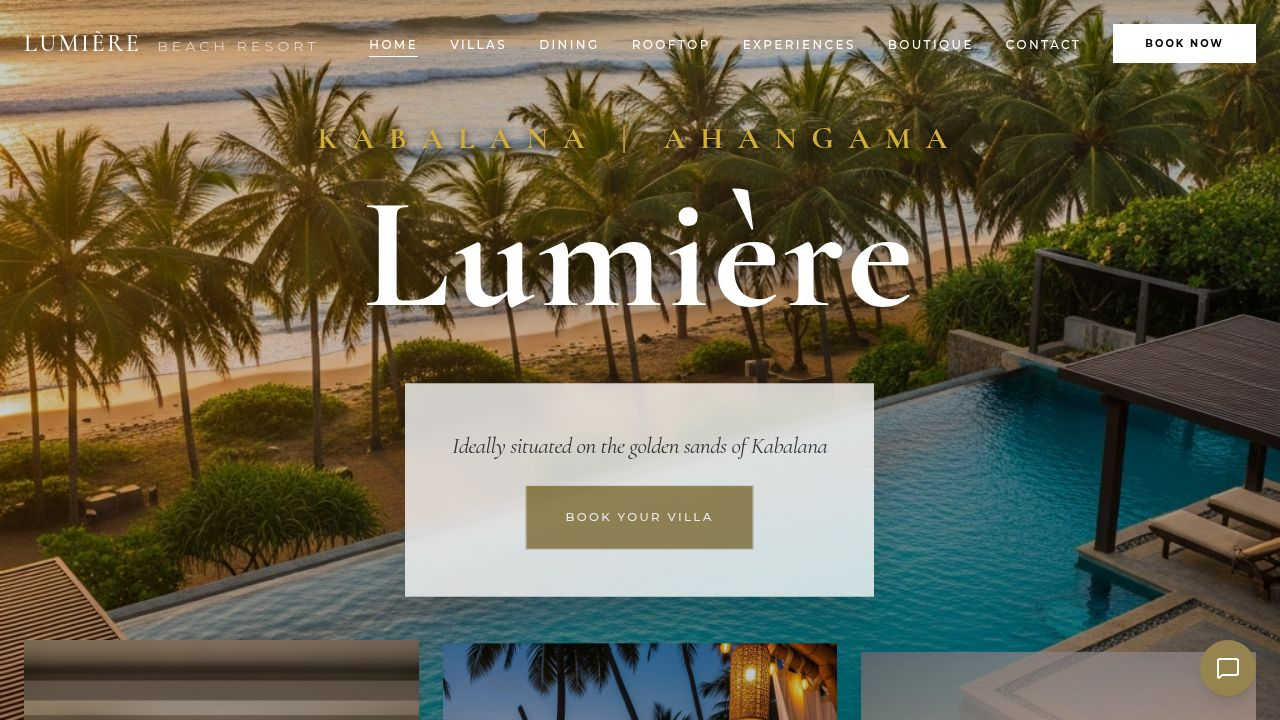
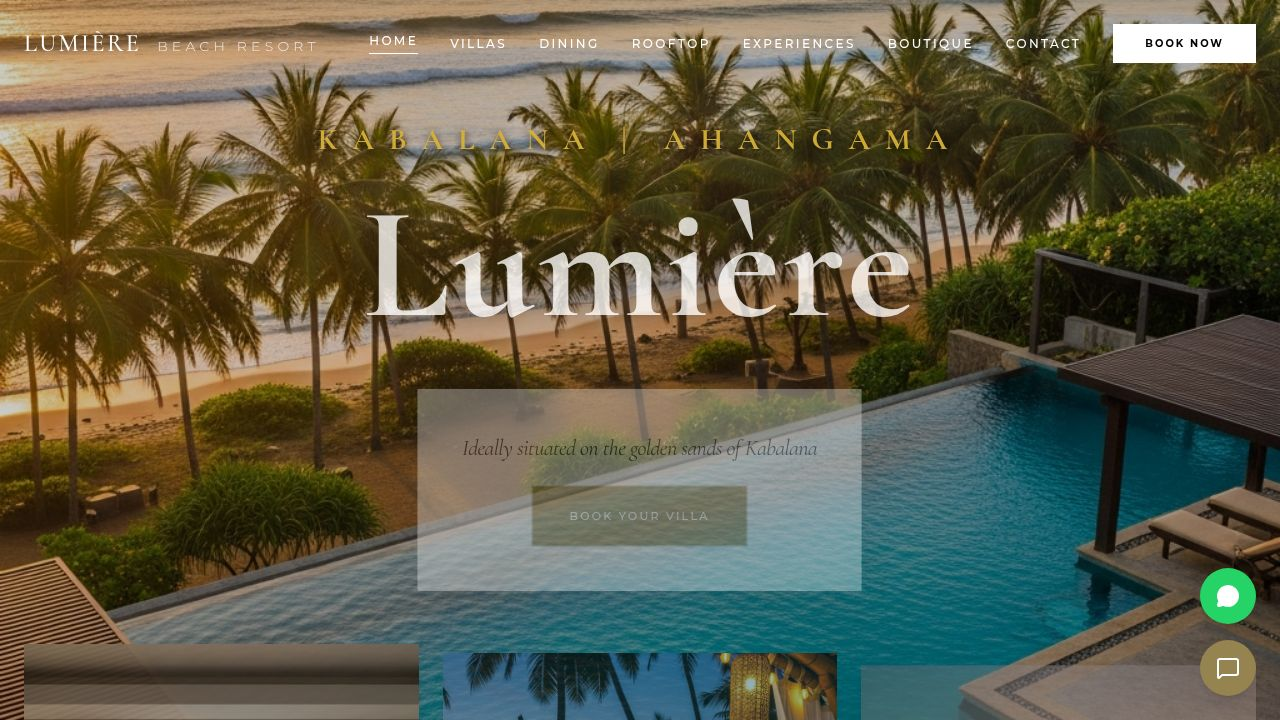
Add detailed pages for each villa with booking functionality
Implement a dynamic route for /rooms/:id to display villa details including a gallery, description, amenities, and a functional booking button.

Replit-Commit-Author: Agent
Replit-Commit-Session-Id: 6dc236d9-b000-4b15-93d0-88bc13d1ae64
Replit-Commit-Checkpoint-Type: full_checkpoint
Replit-Commit-Event-Id: 4dd7172b-1869-47d0-be1b-2f85871090e9
Replit-Commit-Screenshot-Url: https://storage.googleapis.com/screenshot-production-us-central1/9d6a1604-b092-4eb2-9c59-578db4086655/6dc236d9-b000-4b15-93d0-88bc13d1ae64/bbpY5ty
Replit-Helium-Checkpoint-Created: true

diff --git a/client/src/pages/RoomDetails.tsx b/client/src/pages/RoomDetails.tsx
@@ -1,0 +1,192 @@
+import { useParams, Link } from "wouter";
+import { motion } from "framer-motion";
+import { rooms } from "@/lib/mockData";
+import { Button } from "@/components/ui/button";
+import BookingDialog from "@/components/BookingDialog";
+import { Wifi, Wind, Wine, User, Droplets, ArrowLeft, Check } from "lucide-react";
+
+import bedroomImage from "@assets/generated_images/villa_master_bedroom_interior.png";
+import bathroomImage from "@assets/generated_images/villa_bathroom_with_bathtub.png";
+import poolImage from "@assets/generated_images/villa_private_pool_terrace.png";
+import livingImage from "@assets/generated_images/villa_living_room_interior.png";
+import heroImage from "@assets/generated_images/beachfront_villa_plunge_pool.png";
+
+const galleryImages = [
+  { src: heroImage, alt: "Villa Exterior" },
+  { src: bedroomImage, alt: "Master Bedroom" },
+  { src: bathroomImage, alt: "Luxury Bathroom" },
+  { src: poolImage, alt: "Private Pool" },
+  { src: livingImage, alt: "Living Area" },
+];
+
+const amenityIcons: Record<string, typeof Wifi> = {
+  "Wifi": Wifi,
+  "Mini Bar": Wine,
+  "Butler Service": User,
+  "Private Butler": User,
+  "Outdoor Rain Shower": Droplets,
+  "AC": Wind,
+};
+
+const allAmenities = [
+  { name: "High-Speed Wi-Fi", icon: Wifi },
+  { name: "Climate Control AC", icon: Wind },
+  { name: "Premium Mini-Bar", icon: Wine },
+  { name: "Private Butler", icon: User },
+  { name: "Outdoor Rain Shower", icon: Droplets },
+];
+
+const roomDescriptions: Record<number, string> = {
+  1: "Experience unparalleled luxury in our Royal Ocean Villa, a 1,500 sq ft beachfront sanctuary where the Indian Ocean greets you each morning. Step directly from your private terrace onto the pristine sands of Kabalana Beach. Your personal plunge pool offers a serene retreat, while the outdoor rain shower under the stars creates unforgettable moments. With dedicated butler service attending to your every need, handcrafted furnishings, and panoramic ocean views from every room, this villa represents the pinnacle of tropical indulgence.",
+  2: "The Ocean View Suite captures the essence of coastal elegance across 900 sq ft of thoughtfully designed space. Wake to breathtaking views of the Indian Ocean from your private balcony, where dolphins often play in the morning light. The suite features a luxurious Jacuzzi, a king-size bed dressed in the finest Egyptian cotton, and a curated mini-bar with local and international selections. Floor-to-ceiling windows frame nature's ever-changing canvas, making this suite perfect for couples seeking romance and tranquility.",
+  3: "Nestled within our lush tropical gardens, the Garden Cabana offers an intimate 600 sq ft retreat surrounded by nature's symphony. Your private terrace opens to swaying palms and exotic flowers, with a hammock inviting lazy afternoon naps. The space blends indoor-outdoor living seamlessly, with natural materials and artisanal touches throughout. Wake to birdsong, enjoy your morning coffee in the garden, and let the gentle tropical breeze carry your cares away.",
+};
+
+export default function RoomDetails() {
+  const params = useParams();
+  const roomId = parseInt(params.id || "1");
+  const room = rooms.find(r => r.id === roomId);
+
+  if (!room) {
+    return (
+      <div className="pt-24 min-h-screen bg-background flex items-center justify-center">
+        <div className="text-center">
+          <h1 className="text-4xl font-serif mb-4">Room Not Found</h1>
+          <Link href="/rooms">
+            <Button variant="outline">Back to Villas</Button>
+          </Link>
+        </div>
+      </div>
+    );
+  }
+
+  return (
+    <div className="pt-24 min-h-screen bg-background text-foreground pb-20">
+      <div className="container mx-auto px-6">
+        
+        <Link href="/rooms">
+          <span className="inline-flex items-center gap-2 text-muted-foreground hover:text-primary transition-colors cursor-pointer mb-8 text-sm uppercase tracking-widest">
+            <ArrowLeft size={16} />
+            Back to Villas
+          </span>
+        </Link>
+
+        <motion.div
+          initial={{ opacity: 0, y: 20 }}
+          animate={{ opacity: 1, y: 0 }}
+          className="mb-12"
+        >
+          <div className="flex flex-col md:flex-row md:items-end md:justify-between gap-4 mb-8">
+            <div>
+              <span className="text-primary uppercase tracking-widest text-sm font-bold">{room.category}</span>
+              <h1 className="text-4xl md:text-6xl font-serif mt-2">{room.name}</h1>
+              <p className="text-muted-foreground mt-2">{room.floor} • {room.view} • {room.size}</p>
+            </div>
+            <div className="text-right">
+              <p className="text-4xl font-serif">${room.price}</p>
+              <p className="text-muted-foreground text-sm">per night</p>
+            </div>
+          </div>
+        </motion.div>
+
+        {/* Gallery Grid */}
+        <motion.div
+          initial={{ opacity: 0 }}
+          animate={{ opacity: 1 }}
+          transition={{ delay: 0.2 }}
+          className="grid grid-cols-2 md:grid-cols-4 gap-4 mb-16"
+        >
+          <div className="col-span-2 row-span-2">
+            <img 
+              src={galleryImages[0].src} 
+              alt={galleryImages[0].alt}
+              className="w-full h-full object-cover min-h-[300px] md:min-h-[500px]"
+            />
+          </div>
+          {galleryImages.slice(1).map((img, index) => (
+            <div key={index} className="aspect-square overflow-hidden">
+              <img 
+                src={img.src} 
+                alt={img.alt}
+                className="w-full h-full object-cover hover:scale-105 transition-transform duration-500"
+              />
+            </div>
+          ))}
+        </motion.div>
+
+        <div className="grid grid-cols-1 lg:grid-cols-3 gap-16">
+          {/* Description */}
+          <motion.div
+            initial={{ opacity: 0, x: -20 }}
+            animate={{ opacity: 1, x: 0 }}
+            transition={{ delay: 0.3 }}
+            className="lg:col-span-2 space-y-8"
+          >
+            <div>
+              <h2 className="text-2xl font-serif mb-6">About This Villa</h2>
+              <p className="text-muted-foreground leading-relaxed text-lg">
+                {roomDescriptions[room.id] || `Experience luxury in our beautiful ${room.name}, featuring ${room.amenities.join(", ")}.`}
+              </p>
+            </div>
+
+            {/* Amenities List */}
+            <div>
+              <h2 className="text-2xl font-serif mb-6">Villa Amenities</h2>
+              <div className="grid grid-cols-2 gap-4">
+                {room.amenities.map((amenity, i) => (
+                  <div key={i} className="flex items-center gap-3 p-4 bg-secondary/30 border border-border">
+                    <Check size={18} className="text-primary" />
+                    <span className="text-sm">{amenity}</span>
+                  </div>
+                ))}
+                {allAmenities.map((amenity, i) => (
+                  <div key={`extra-${i}`} className="flex items-center gap-3 p-4 bg-secondary/30 border border-border">
+                    <amenity.icon size={18} className="text-primary" />
+                    <span className="text-sm">{amenity.name}</span>
+                  </div>
+                ))}
+              </div>
+            </div>
+          </motion.div>
+
+          {/* Booking Card */}
+          <motion.div
+            initial={{ opacity: 0, x: 20 }}
+            animate={{ opacity: 1, x: 0 }}
+            transition={{ delay: 0.4 }}
+            className="lg:col-span-1"
+          >
+            <div className="sticky top-32 bg-card border border-border p-8 shadow-lg">
+              <div className="text-center mb-6">
+                <p className="text-4xl font-serif">${room.price}</p>
+                <p className="text-muted-foreground text-sm">per night</p>
+              </div>
+              
+              <div className="space-y-4 mb-6 text-sm">
+                <div className="flex justify-between py-2 border-b border-border">
+                  <span className="text-muted-foreground">Room Type</span>
+                  <span className="font-semibold">{room.category}</span>
+                </div>
+                <div className="flex justify-between py-2 border-b border-border">
+                  <span className="text-muted-foreground">Size</span>
+                  <span className="font-semibold">{room.size}</span>
+                </div>
+                <div className="flex justify-between py-2 border-b border-border">
+                  <span className="text-muted-foreground">View</span>
+                  <span className="font-semibold">{room.view}</span>
+                </div>
+              </div>
+
+              <BookingDialog roomType={room.name} price={room.price} />
+              
+              <p className="text-xs text-center text-muted-foreground mt-4">
+                Free cancellation up to 48 hours before check-in
+              </p>
+            </div>
+          </motion.div>
+        </div>
+
+      </div>
+    </div>
+  );
+}

diff --git a/client/src/components/layout/Navbar.tsx b/client/src/components/layout/Navbar.tsx
@@ -44,31 +44,34 @@ export default function Navbar() {
     >
       <div className="container mx-auto px-6 flex justify-between items-center">
         {/* Logo */}
-        <Link href="/">
-          <a className={cn("text-xl md:text-2xl font-serif font-medium tracking-widest uppercase cursor-pointer transition-colors duration-300", textColorClass)}>
-            Lumière <span className="text-xs md:text-sm block md:inline font-sans font-light tracking-[0.3em] opacity-80 mt-1 md:mt-0 md:ml-2">Beach Resort</span>
-          </a>
+        <Link 
+          href="/"
+          className={cn("text-xl md:text-2xl font-serif font-medium tracking-widest uppercase cursor-pointer transition-colors duration-300", textColorClass)}
+        >
+          Lumière <span className="text-xs md:text-sm block md:inline font-sans font-light tracking-[0.3em] opacity-80 mt-1 md:mt-0 md:ml-2">Beach Resort</span>
         </Link>
 
         {/* Desktop Nav */}
         <div className="hidden md:flex items-center gap-6 lg:gap-8">
           {navLinks.map((link) => (
-            <Link key={link.name} href={link.href}>
-              <a
-                className={cn(
-                  "text-[10px] lg:text-xs uppercase tracking-[0.2em] font-medium transition-colors duration-300",
-                  textColorClass,
-                  hoverColorClass,
-                  location === link.href && (isHome && !scrolled ? "border-b border-white pb-1" : "border-b border-primary pb-1")
-                )}
-              >
-                {link.name}
-              </a>
+            <Link 
+              key={link.name} 
+              href={link.href}
+              className={cn(
+                "text-[10px] lg:text-xs uppercase tracking-[0.2em] font-medium transition-colors duration-300",
+                textColorClass,
+                hoverColorClass,
+                location === link.href && (isHome && !scrolled ? "border-b border-white pb-1" : "border-b border-primary pb-1")
+              )}
+            >
+              {link.name}
             </Link>
           ))}
-          <button className={cn("px-6 lg:px-8 py-3 rounded-none uppercase text-[10px] font-bold tracking-[0.2em] transition-all duration-300", buttonClass)}>
-            Book Now
-          </button>
+          <Link href="/rooms">
+            <button className={cn("px-6 lg:px-8 py-3 rounded-none uppercase text-[10px] font-bold tracking-[0.2em] transition-all duration-300", buttonClass)}>
+              Book Now
+            </button>
+          </Link>
         </div>
 
         {/* Mobile Toggle */}
@@ -91,18 +94,20 @@ export default function Navbar() {
           >
              <div className="flex flex-col items-center gap-8">
               {navLinks.map((link) => (
-                <Link key={link.name} href={link.href}>
-                  <a
-                    className="text-2xl font-serif text-foreground hover:text-primary transition-colors"
-                    onClick={() => setIsOpen(false)}
-                  >
-                    {link.name}
-                  </a>
+                <Link 
+                  key={link.name} 
+                  href={link.href}
+                  className="text-2xl font-serif text-foreground hover:text-primary transition-colors"
+                  onClick={() => setIsOpen(false)}
+                >
+                  {link.name}
                 </Link>
               ))}
-              <button className="bg-primary text-white w-full py-4 rounded-none uppercase text-sm font-bold tracking-widest mt-8">
-                Book a Stay
-              </button>
+              <Link href="/rooms" onClick={() => setIsOpen(false)}>
+                <button className="bg-primary text-white w-full py-4 rounded-none uppercase text-sm font-bold tracking-widest mt-8">
+                  Book a Stay
+                </button>
+              </Link>
             </div>
           </motion.div>
         )}

diff --git a/client/src/pages/Rooms.tsx b/client/src/pages/Rooms.tsx
@@ -1,4 +1,5 @@
 import { motion } from "framer-motion";
+import { Link } from "wouter";
 import { rooms } from "@/lib/mockData";
 import { Button } from "@/components/ui/button";
 import BookingDialog from "@/components/BookingDialog";
@@ -70,9 +71,11 @@ export default function Rooms() {
 
                 <div className="flex gap-4">
                   <BookingDialog roomType={room.name} price={room.price} />
-                  <Button variant="outline" className="flex-1 border-border text-foreground hover:bg-secondary rounded-none uppercase tracking-widest text-xs font-bold py-6">
-                    View Details
-                  </Button>
+                  <Link href={`/rooms/${room.id}`} className="flex-1">
+                    <Button variant="outline" className="w-full border-border text-foreground hover:bg-secondary rounded-none uppercase tracking-widest text-xs font-bold py-6">
+                      View Details
+                    </Button>
+                  </Link>
                 </div>
               </div>
             </motion.div>

diff --git a/client/src/App.tsx b/client/src/App.tsx
@@ -16,6 +16,7 @@ import Boutique from "@/pages/Boutique";
 import Contact from "@/pages/Contact";
 import Admin from "@/pages/Admin";
 import Rooftop from "@/pages/Rooftop";
+import RoomDetails from "@/pages/RoomDetails";
 
 // Layout wrapper to conditionally hide Navbar/Footer for Admin
 function Layout({ children }: { children: React.ReactNode }) {
@@ -71,6 +72,18 @@ function Router() {
           <Navbar />
           <main className="flex-grow">
              <Rooms />
+          </main>
+          <Footer />
+          <WhatsAppButton />
+          <Chatbot />
+        </div>
+      </Route>
+
+      <Route path="/rooms/:id">
+        <div className="flex flex-col min-h-screen">
+          <Navbar />
+          <main className="flex-grow">
+             <RoomDetails />
           </main>
           <Footer />
           <WhatsAppButton />
